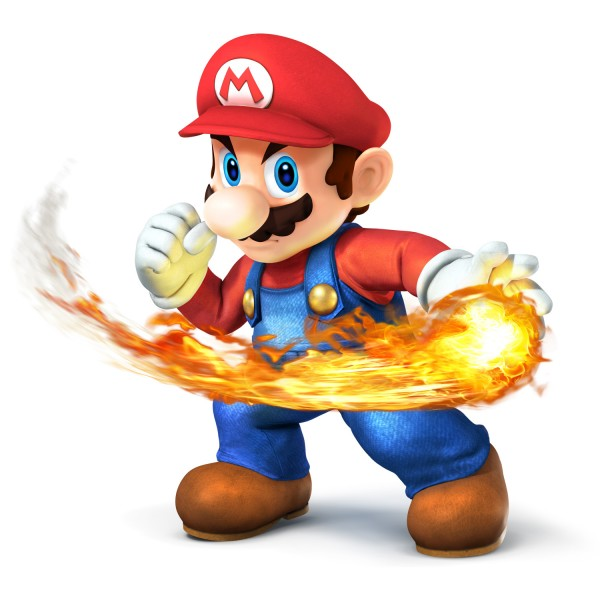
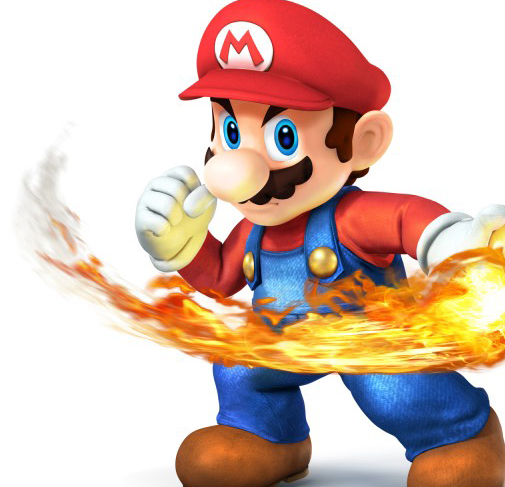
Adding structure and files for cover.html

diff --git a/cover.html b/cover.html
@@ -7,29 +7,69 @@
   <title>CSS Template</title>
   <link rel="stylesheet" href="css/normalize.css">
   <link rel="stylesheet" href="css/cover.css">
+  <link href="https://fonts.googleapis.com/css?family=Finger+Paint" rel="stylesheet">
 </head>
 <body>
   <div class="container">
     <header class="header">
-      <div style="background-color:red; width:100%;height:20%">
+      <div style="background-color:#e3001c; width:100%;height:20%">
         <div style="display:inline-block;  margin: 0.5em;">
-          <span style="display:inline-block">
+          <span class="headerText">
             REVISTA OFICIAL NINTENDO
           </span>
           <img src="img/wii.png" style="display:inline-block; width:2em;height: 0.8em;"/>
           <img src="img/Nintendo_3DS_logo.png" style="display:inline-block; width:2em;height: 0.8em;"/>
         </div>
       </div>
-      <div style="background-color:green;height:80%;position:relative;">
+      <div style="background-color:#e3001c;height:80%;position:relative;">
         <img src="img/Logo_Nintendo.png" style="position: absolute;top: 50%;left: 50%;transform: translate(-50%, -50%);">
       </div>
     </header>
-    <section style="overflow:hidden;">
-      <img src="img/mario.jpg" style="width:118%;right:-67px;height:100%;">
-      <span>LEO</span>
+    <section>
+      <img src="img/mario.png" class="mainCover">
+      <div style="position:absolute;top:0;width: 100%;">
+        <div style="width:100%;">
+          <div style="display:inline-block;top:-0.6em;left: -0.5em;position:relative;">
+            <img src="img/Barkley.png" style="height: 17vw;"/>
+          </div>
+          <div style="display:inline-block;vertical-align: top;padding-top: 1.5em;left: -1em;position: relative;">
+            <span class="tCoverBlue">SKYLANDERS<br>TRAP TEAM</span><br>
+            <span class="tCoverBlack">Ahora los villanos<br>serán protagonistas</span>
+          </div>
+        </div>
+        <div style="left:0.6em; position: relative;">
+          <span class="tCoverBlue">DISNEY<br>INFINITY 2.0</span><br>
+          <span class="tCoverBlack">Con los héroes Marvel</span>
+        </div>
+        <div style="left:0.6em; position: relative;padding-top: 1em;">
+          <span class="tCoverBlue">BAYONETTA 2</span><br>
+          <span class="tCoverBlack">¡A las armas en Wii U!</span>
+        </div>
+        <div style="left:0.6em; position: relative;padding-top: 1em;">
+          <img src="img/barcode.png"/><br>
+          <span>Canarias 3,65 €</span>
+        </div>
+        <div style="left:0.6em; position: relative;padding-top: 1em;">
+          <span class="tCoverBlackL">¡EL <b>ANÁLISIS</b><br>MÁS COMPLETO!</span><br>
+          <span class="tCoverXXL">SUPER<br>SMASH BROS.<br>PARA 3DS</span><br>
+          <span class="tCoverXL">El combate<br>del siglo</span><br>
+        </div>
+      </div>
+      <div class="backDiv">
+        <div class="backDivIn">
+        </div>
+      </div>
+      <div class="backText">
+        <span style="font-size: 3vw;">AVANCE</span><br>
+        <span style="color: red;font-weight: 900;font-size: 3.5vw;line-height: 3.0vw;-webkit-transform: scale(0.8,1.2);display: inline-block;right: -3vw;position: relative;padding-top:0.5vw;padding-bottom:1.5vw;">
+          <b>POKÉMON<br>RUBÍ OMEGA Y<br>ZAFIRO ALFA</b>
+        </span><br>
+        <span style="font-size: 3vw;line-height: 2vw;">Y no te pierdas<br>el <span style="font-weight:bolder;"><b>nuevo pack<br>Pokémon 2DS</b></span></span>
+      </div>
     </section>
     <footer>
-      <span>GRATIS POSTER DOBLE</span>
+      <p style="margin:0;font-size:4vw;padding-left:2vw;font-style: italic;font-family:'Finger Paint',cursive;color:white;position: absolute;"><span style="color:yellow;">GRATIS</span> PÓSTER DOBLE</p>
+      <img src="img/posters.png" style="right:0;position:absolute;bottom: 0;width: 50%;" />
     </footer>
   </div>
 </body>

diff --git a/css/cover.css b/css/cover.css
@@ -25,9 +25,17 @@ header>div>img {
 section {
   height: 75%;
   width: 100%;
+  position: relative;
 }
 
-span {
+footer {
+  height: 5%;
+  width: 100%;
+  background-color: #e3001c;
+  position: relative;
+}
+
+.headerText {
   height: 100%;
   font-size: 0.8em;
   position: relative;
@@ -37,45 +45,97 @@ span {
   margin: 0;
 }
 
-footer {
-  height: 5%;
-  width: 100%;
-  background-color: red;
-}
-
 .container {
  height: 100%;
 }
 
-
-
-
-
-
-
-
-.spanArrow {
-  width: 100%;
-  height: 100%;
-  background-color: red;
-  border: 1px solid red;
-  position: relative;
-  color: yellow;
-  font-weight: bold;
-  font-family: sans-serif;
-  margin: 0;
+.mainCover {
+  width:100%;
+  height:100%;
+  z-index: 10;
 }
 
-.spanArrow:before {
-  content: '';
+.tCoverBlue {
+  color: #0096ff;
+  font-weight: bold;
+  font-size: 4vw;
+  display: inline-block;
+  line-height: 3.5vw;
+  vertical-align: top;
+}
+
+.tCoverBlack {
+  color: black;
+  font-size: 3vw;
+  display: inline-block;
+  line-height: 2.5vw;
+  vertical-align: top;
+}
+
+.tCoverBlackL {
+  color: black;
+  font-size: 3.5vw;
+  display: inline-block;
+  line-height: 3vw;
+  font-weight: bolder;
+}
+
+.tCoverXL {
+  color: black;
+  font-size: 8vw;
+  line-height: 6.5vw;
+  font-weight: 900;
+  -webkit-transform: scale(0.8,1.2);
+  display: inline-block;
+  padding-top: 1vw;
+  left: -5vw;
+  position: relative;
+}
+
+.tCoverXXL {
+  color: #e3001c;
+  font-size: 9vw;
+  display: inline-block;
+  line-height: 7.5vw;
+  font-weight: 900;
+  transform: scale(0.8,1.2);
+  -webkit-transform: scale(0.8,1.2);
+  position: relative;;
+  left: -7vw;
+  padding-top: 0.2em;
+  padding-bottom: 0.3em;
+}
+
+.backDiv {
   position: absolute;
-  top: 0px;
-  left: 101%;
-  width: 0;
-  height: 0;
-  border: solid transparent;
-  border-left: 0.5em solid red;
-  border-right-width: 0.5em;
-  border-top-width: 0.5em;
-  border-bottom-width: 0.5em;
+  top: 1vw;
+  right: -10%;
+  background-color: white;
+  width: 43%;
+  height: 41%;
+  border-radius: 50%;
+  z-index: -1;
+  border-style: solid;
+  border-color: #fec63e;
+}
+
+.backDivIn {
+  background-color: #fec63e;
+  width: 96%;
+  height: 96%;
+  border-radius: 50%;
+  z-index: -1;
+  position: absolute;
+  top: 50%;
+  left: 50%;
+  transform: translate(-50%, -50%);
+}
+
+.backText {
+  text-align: right;
+  padding-right: 2vw;
+  padding-top: 4vw;
+  position: absolute;
+  top: 0;
+  right: 0;  
 }
